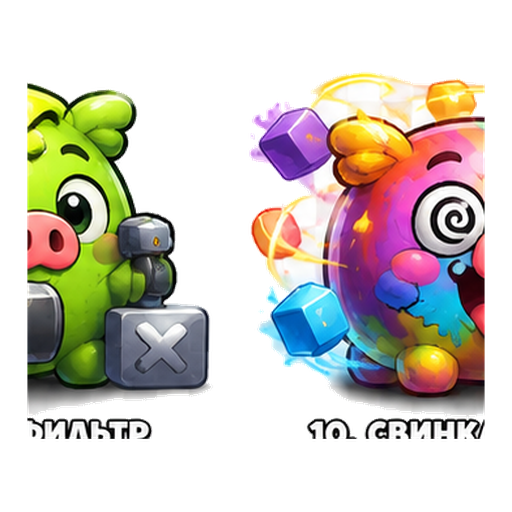
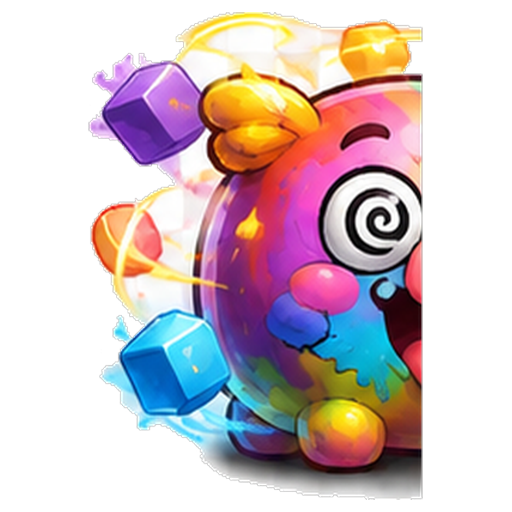
fix: cropped chaos/jackpot/filter sprites + jackpot 25% + world for L31
Aleksey feedback 2026-08-26 (playtest скрины):

1. Спрайты «криво нарезаны» в магазине:
   - piggy_chaos.png содержал 2 пига (filter слева + chaos справа) + текст
     «10. СВИНК». Обрезал автоматически: crop_to_main_blob → longest
     row-run → повторный crop, remove side artifacts.
   - piggy_jackpot.png содержал 2 пига (green chain-like + gold jackpot).
     Аналогичный autocrop.
   - piggy_filter.png содержал 1 пиг + baked «9. СВИНКА-Ф» текст внизу.
     Row-run split (body 28-455, text 458-485) — оставил только body.
   Оригиналы в assets/images/backup_orig/ (gitignored, локальный safety).
   Остальные 10 спрайтов чистые — не тронуты.

2. Jackpot: chance clear-all 50% → 25% («5-ammo пиг снёс всё поле» это
   был jackpot lucky roll — слишком часто выпадает «I win»).

3. L31 не появлялся в HomeScreen — не попадал ни в один world.
   Добавлен новый world «Grid Lab» (id=gridlab, 🌌, first=31, last=35)
   после Neon Lab.

diff --git a/lib/game/pixel_flow_game.dart b/lib/game/pixel_flow_game.dart
@@ -2419,11 +2419,13 @@ class BallComponent extends SpriteComponent {
     }
   }
 
-  /// Jackpot: 50% clear the whole board (stone excluded), 50% just pop target.
+  /// Jackpot: 25% clear the whole board (stone excluded), 75% just pop target.
+  /// Aleksey 2026-08-26: понижен с 50% до 25% — «5-ammo пиг снёс всё поле»
+  /// оказалось джекпотом, слишком часто выпадает эффект «I win».
   void _jackpotRoll() {
     final board = _board;
     if (board == null) return;
-    final lucky = math.Random().nextBool();
+    final lucky = math.Random().nextDouble() < 0.25;
     if (!lucky) {
       target.applyHit();
       return;

diff --git a/lib/game/levels.dart b/lib/game/levels.dart
@@ -80,6 +80,15 @@ const List<WorldConfig> worlds = [
     lastLevel: 30,
     tagline: 'Спец-пиги: бомбы и реакции',
   ),
+  WorldConfig(
+    id: 'gridlab',
+    name: 'Grid Lab',
+    emoji: '🌌',
+    color: Color(0xFF6C4CFF),
+    firstLevel: 31,
+    lastLevel: 35,
+    tagline: 'Огромные поля, всё сразу',
+  ),
 ];
 
 /// Look up which world a level belongs to. Returns the first matching world
